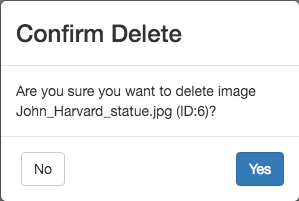
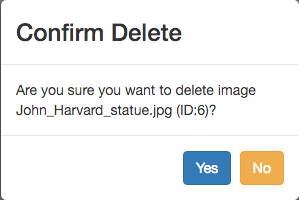
Media Manager confirm deletion of image, current UI code and screen capture.

diff --git a/Media_Manage_image_edit_module/index.html b/Media_Manage_image_edit_module/index.html
@@ -6,6 +6,6 @@
 </div>
 <div class="modal-footer ng-scope">
     <button class="btn btn-primary" type="button" ng-click="cd.ok()">Yes</button>
-    <button class="btn btn-default pull-left" type="button" ng-click="cd.cancel()">No</button>
+    <button class="btn btn-warning" type="button" ng-click="cd.cancel()">No</button>
 </div>
 </div>
